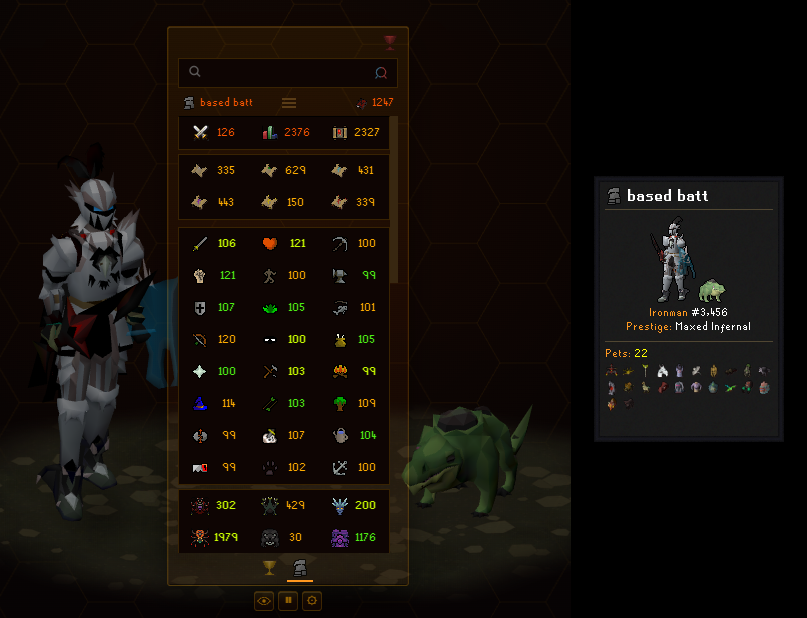
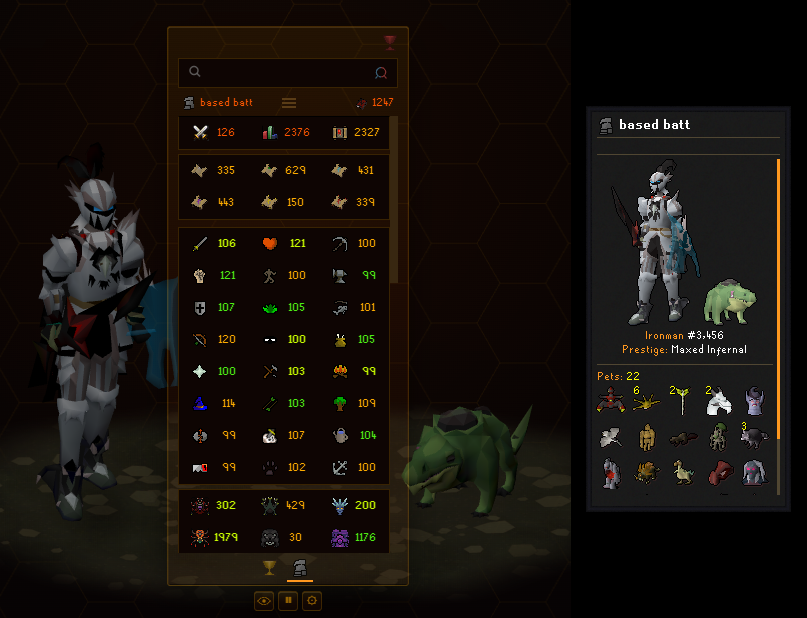
show 2.6.0's skill log and Player Summary in the readme, and browsing the whole log from the Clog Summary

Changed region(s): [[0.7125, 0.1537, 0.9913, 0.8301]]

diff --git a/README.md b/README.md
@@ -60,6 +60,8 @@ While a League runs, a **Leagues** switch beside the search bar flips the panel 
 
 HiScores load for any valid RSN, including Collection Log totals and ranks when listed. Item-by-item Collection Log details appear when that player has data available through TempleOSRS, RuneProfile, or Kill Clog.
 
+Browse the entire Collection Log through the Clog Summary's navigation.
+
 ## Grid and List views
 
 Toggle between the default Grid view and List view with the **Menu** button under the search bar. Comparison uses Grid view.
